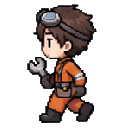
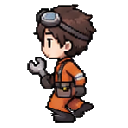
Інженер без скафандра: домальовані кадри «ноги разом» для ходьби вбік, у модулі знову місячні стрибки (нижчі); кадри поштовху/польоту окремо для кожного вбрання
Claude-Session: https://claude.ai/code/session_01ApBw6CwDRhV6Mr72XkFQTQ

Changed region(s): [[0.2812, 0.8438, 0.75, 0.9688]]

diff --git a/Assets/_Project/Scripts/World/MoonHop.cs b/Assets/_Project/Scripts/World/MoonHop.cs
@@ -21,9 +21,10 @@ public class MoonHop : MonoBehaviour
     [SerializeField] float suitHopHeight = 0.32f;     // метрів
     [SerializeField] float suitFlightSeconds = 0.55f; // скільки летить
     [SerializeField] float suitPushSeconds = 0.16f;   // скільки стоїть на нозі: присів → відштовхнувся
-    [Header("Без скафандра (у модулі) — звичайний крок з легким погойдуванням")]
-    [SerializeField] float indoorBob = 0.05f;          // наскільки підстрибує на кожному кроці, метрів
-    [SerializeField] float indoorStepSeconds = 0.28f;  // скільки триває один крок (2 кадри анімації)
+    [Header("Без скафандра (у модулі) — теж місяць, але стрибки нижчі й швидші")]
+    [SerializeField] float indoorJumpHeight = 0.14f;
+    [SerializeField] float indoorJumpFlightSeconds = 0.34f;
+    [SerializeField] float indoorJumpPushSeconds = 0.1f;
     [Header("Тінь")]
     [SerializeField] float shadowSize = 0.9f;         // діаметр плями, метрів
 
@@ -32,20 +33,15 @@ public class MoonHop : MonoBehaviour
     /// <summary>Чи персонаж зараз у русі стрибками (а не стоїть).</summary>
     public bool IsHopping => phase != Phase.Idle;
     /// <summary>Чи нога зараз на землі (поштовх або приземлення), а не в польоті.</summary>
-    public bool OnGround => phase != Phase.Flight; // у звичайній ході (Walk) теж true
+    public bool OnGround => phase != Phase.Flight;
     /// <summary>Яка нога зараз працює: 0 або 1. Кожен стрибок — інша нога.</summary>
     public int Leg { get; private set; }
-    /// <summary>true = звичайна хода (без скафандра): кадри йдуть по колу, номер кадру — WalkFrame.</summary>
-    public bool UseWalkCycle => phase == Phase.Walk;
-    /// <summary>Номер кадру ходьби (рахує безперервно, бери за модулем кількості кадрів).</summary>
-    public int WalkFrame { get; private set; }
 
     // Один стрибок:  Push (присів на нозі й відштовхнувся) → Flight (летить) → приземлився на ІНШУ ногу → Push ...
     // Коли гравець відпустив клавіші: після польоту — Landing (присів, погасив удар) → Idle.
-    enum Phase { Idle, Push, Flight, Landing, Walk }
+    enum Phase { Idle, Push, Flight, Landing }
     Phase phase = Phase.Idle;
     float t;            // 0..1 — де ми в поточній фазі
-    float walkTime;     // скільки секунд іде звичайним кроком
     bool lastSuit = true;
     float maxHeight = 0.3f;
     Transform shadow;
@@ -66,13 +62,11 @@ public class MoonHop : MonoBehaviour
     public void Step(bool wantMove, bool suit, float dt)
     {
         // Зняв або одягнув скафандр (у шлюзі) — починаємо з місця
-        if (suit != lastSuit) { lastSuit = suit; phase = Phase.Idle; t = 0f; walkTime = 0f; }
+        if (suit != lastSuit) { lastSuit = suit; phase = Phase.Idle; t = 0f; }
 
-        if (!suit) { StepWalk(wantMove, dt); return; }
-
-        maxHeight = suitHopHeight;
-        float flight = suitFlightSeconds;
-        float push = suitPushSeconds;
+        maxHeight = suit ? suitHopHeight : indoorJumpHeight;
+        float flight = suit ? suitFlightSeconds : indoorJumpFlightSeconds;
+        float push = suit ? suitPushSeconds : indoorJumpPushSeconds;
 
         switch (phase)
         {
@@ -107,21 +101,6 @@ public class MoonHop : MonoBehaviour
         Height = phase == Phase.Flight ? 4f * maxHeight * t * (1f - t) : 0f;
 
         if (billboard != null) billboard.ExtraScale = Pose();
-        UpdateShadow();
-    }
-
-    /// <summary>Без скафандра: звичайний крок, кадри по колу, легке погойдування на кожному кроці.</summary>
-    void StepWalk(bool wantMove, float dt)
-    {
-        maxHeight = indoorBob;
-        if (wantMove) { phase = Phase.Walk; walkTime += dt; }
-        else { phase = Phase.Idle; walkTime = 0f; }
-
-        float steps = walkTime / indoorStepSeconds;
-        WalkFrame = (int)(steps * 2f);                                  // 2 кадри на крок
-        Height = phase == Phase.Walk ? indoorBob * Mathf.Abs(Mathf.Sin(steps * Mathf.PI)) : 0f;
-
-        if (billboard != null) billboard.ExtraScale = Vector2.one;
         UpdateShadow();
     }
 

diff --git a/Assets/_Project/Scripts/World/EngineerController.cs b/Assets/_Project/Scripts/World/EngineerController.cs
@@ -31,6 +31,10 @@ public class EngineerController : MonoBehaviour
         public Sprite[] walkLeft;    // іде вліво
         [Tooltip("Можна лишити порожнім — тоді беремо walkLeft і дзеркалимо")]
         public Sprite[] walkRight;   // іде вправо
+        [Tooltip("Номер кадру ходьби (0..3), коли нога на землі й відштовхується: [одна нога, інша нога]. Широкий крок.")]
+        public int[] pushFrames = { 1, 2 };
+        [Tooltip("Номер кадру ходьби (0..3) у польоті: [після однієї ноги, після іншої]. Ноги разом.")]
+        public int[] airFrames = { 0, 3 };
     }
 
     [Header("Рух")]
@@ -45,10 +49,6 @@ public class EngineerController : MonoBehaviour
 
     [Header("Спрайт")]
     [SerializeField] SpriteRenderer spriteRenderer;
-    [Tooltip("Кадр ходьби (0..3), коли нога на землі і відштовхується: [ліва нога, права нога]. Широкий крок.")]
-    [SerializeField] int[] pushFrames = { 1, 2 };
-    [Tooltip("Кадр ходьби (0..3) у польоті після поштовху: [після лівої, після правої]. Ноги разом.")]
-    [SerializeField] int[] airFrames = { 0, 3 };
     [Tooltip("У скафандрі (надворі)")]
     public SpriteSet suit = new SpriteSet();
     [Tooltip("Без скафандра (у модулях)")]
@@ -217,12 +217,10 @@ public class EngineerController : MonoBehaviour
 
         Sprite frame = idle;
         bool hopping = hop != null && hop.IsHopping;
-        if (hopping && !IsEmpty(walk) && hop.UseWalkCycle)
-            frame = walk[hop.WalkFrame % walk.Length]; // без скафандра — звичайний крок, усі кадри по колу
-        else if (hopping && !IsEmpty(walk))
+        if (hopping && !IsEmpty(walk))
         {
             // Нога на землі — кадр поштовху цієї ноги; у польоті — кадр «ноги разом». Кожен стрибок — інша нога.
-            int[] map = hop.OnGround ? pushFrames : airFrames;
+            int[] map = hop.OnGround ? set.pushFrames : set.airFrames;
             int i = map != null && map.Length > hop.Leg ? map[hop.Leg] : 0;
             frame = walk[Mathf.Clamp(i, 0, walk.Length - 1)];
         }

diff --git a/Assets/_Project/Scripts/Editor/EngineerSetupTool.cs b/Assets/_Project/Scripts/Editor/EngineerSetupTool.cs
@@ -45,6 +45,9 @@ public static class EngineerSetupTool
             walkBack = Frames(SuitDir, "walk_back_"),
             walkLeft = Frames(SuitDir, "walk_left_"),
             walkRight = Frames(SuitDir, "walk_right_"),
+            // у скафандрі: кадри 2 і 3 — широкий крок (поштовх), 1 і 4 — ноги разом (політ)
+            pushFrames = new[] { 1, 2 },
+            airFrames = new[] { 0, 3 },
         };
         // Без скафандра: engineer_front, engineer_back (або старі *_128), engineer_front_walk_.., engineer_back_walk_..,
         // engineer_left_profile_walk_.. (вправо — дзеркально)
@@ -58,6 +61,9 @@ public static class EngineerSetupTool
             walkBack = Frames(IndoorDir, "engineer_back_walk_"),
             walkLeft = Frames(IndoorDir, "engineer_left_profile_walk_"),
             walkRight = new Sprite[0],
+            // без скафандра: кадри 1 і 3 — широкий крок, 2 і 4 — ноги разом (для ходьби вбік їх домальовано)
+            pushFrames = new[] { 0, 2 },
+            airFrames = new[] { 1, 3 },
         };
         sr.sprite = ctrl.suit.idleFront;
 
